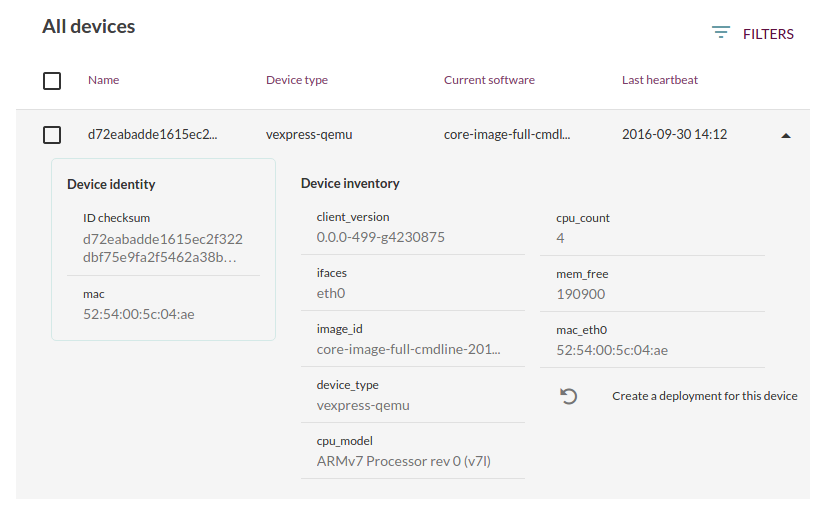
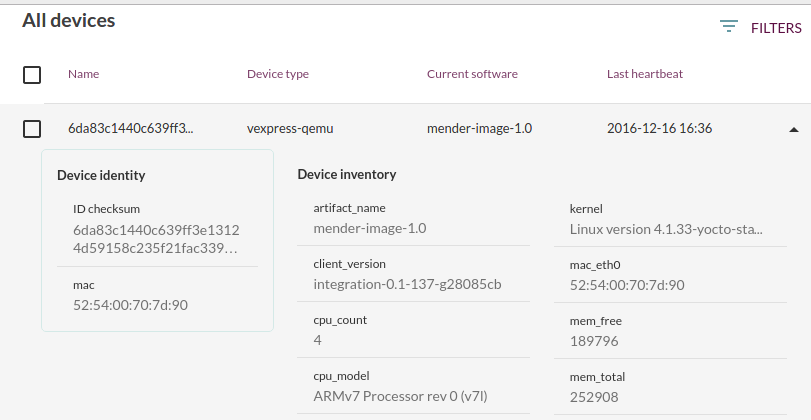
skeleton rewrite to Artifact format for deploy virtual devices

diff --git a/01.Getting-started/03.Deploy-to-virtual-devices/docs.md b/01.Getting-started/03.Deploy-to-virtual-devices/docs.md
@@ -9,6 +9,10 @@ to deploy a full rootfs image update to a virtual device which is
 connected to the server. The virtual device is bundled with the
 Mender server to make it easy to test Mender.
 
+A Mender Artifact is a file format that includes metadata like the
+checksum and name, as well as the actual root file system that is
+deployed. See [Mender Artifacts](../../Architecture/Mender-Artifacts) for
+a complete description of this format.
 
 ## Prerequisites
 
@@ -47,7 +51,7 @@ clicking on a device. It should look similar to the following:
 
 !!! Which information is collected about devices is fully configurable; see the documentation on [Identity](../../Client-configuration/Identity) and [Inventory](../../Client-configuration/Inventory) for more information.
 
-You can also see that the `image_id` starts with `core-image-full-cmdline`.
+You can also see that the `artifact_name` is `mender-image-1.0`.
 The device console can be shown by running the following command:
 
 ```
@@ -61,54 +65,53 @@ It should yield output similar to the following:
 > [  OK  ] Started Mender OTA update service.  
 > [  OK  ] Reached target Multi-User System.  
 >  
-> Poky (Yocto Project Reference Distro) 2.1.1 vexpress-qemu ttyAMA0
+> Poky (Yocto Project Reference Distro) 2.2 vexpress-qemu ttyAMA0
 
-After deploying the update below, you can verify that this `image_id` and the console text (from `/etc/issue`) has changed.
+After deploying the update below, you can verify that this `artifact_name` and the console text (from `/etc/issue`) has changed.
 
 
-## Upload a new rootfs image to the server
+## Upload a new Mender Artifact to the server
 
-Before we can deploy a new image to devices, it needs
-to be uploaded to the server. Any rootfs image that
-includes Mender support can be used, as described in
+Before we can deploy a new Artifact to devices, it needs
+to be uploaded to the server. Any Artifact that
+can be used, and steps to build one are provided at
 [Building a Mender Yocto Project image](../../Artifacts/Building-Mender-Yocto-image).
 
-To make testing easier, a demo image that can be used with
+To make testing easier, a Mender Artifact that can be used with
 the virtual device is provided for download at
 [https://d1b0l86ne08fsf.cloudfront.net/latest/demo/vexpress-qemu/core-image-full-cmdline-vexpress-qemu.ext4](https://d1b0l86ne08fsf.cloudfront.net/latest/demo/vexpress-qemu/core-image-full-cmdline-vexpress-qemu.ext4).
 
-After the download finishes, go back to the Mender server UI,
-click the **Software** tab and upload this image.
+!! TODO: Change above URL.
 
-!!! Currently there are quite a few fields to fill out, but this will very soon be simplified to just *Name* and *Description*, the rest being auto-detected.
+After the download finishes, go back to the Mender server UI,
+click the **Software** tab and upload this Mender Artifact.
 
 Please fill in the following:
 
 * Name: `release2`
-* Yocto ID: `test`
-* Checksum: `test`
-* Device type compatibility: `vexpress-qemu`
 * Description: `My test build`
+
+!!! Both these fields are just informational, to make it is easier to recognize Artifacts after they have been uploaded. Their contents do not affect deployments.
 
 In the UI, it should look something like this:
 
-![Mender UI - Upload image](upload_image.png)
+![Mender UI - Upload Artifact](upload_artifact.png)
 
-! Thorough validation of image metadata is not yet implemented, so we recommend using the exact values above to avoid any issues.
+!! TODO: Fix above screenshot
 
-!!! Mender keeps track of which *Device type* an image supports as part of the metadata of an image. In addition, a device reports which Device type it is as part of its inventory information. During a deployment, the Mender server makes sure that a device will only get a image it supports. This increases the robustness of Mender as it avoids situations like deploying images that are not supported by the device hardware.
+!!! All devices report which *Device type* they are as part of their inventory information, for example `vexpress-qemu` or `beaglebone`. In adition, Mender Artifacts have *Device types compatible* as part of their metadata. During a deployment, the Mender server makes sure that a device will only get an Artifact it is compatible with. This increases the robustness of Mender as it avoids situations like deploying software that is not supported by the device hardware.
 
 
-## Deploy the rootfs image to the device
+## Deploy the Mender Artifact to the device
 
-Now that we have the device connected and the image
+Now that we have the device connected and the Artifact
 uploaded to the server, all that remains is to go to the
 **Deployments** tab and click **Create a deployment**.
 
-You will be asked which image to deploy and which
+You will be asked which Artifact to deploy and which
 group of devices to deploy it to. Since we have just
-one image and no custom groups right now, we simply select
-the image we just uploaded and **All devices**, then
+one Artifact and no custom groups right now, we simply select
+the Artifact we just uploaded and **All devices**, then
 **Create deployment**.
 
 !!! It may take a few seconds until the deployment shows up. You can also refresh your browser to see it immediately.
@@ -117,11 +120,11 @@ the image we just uploaded and **All devices**, then
 ## See the progress of the deployment
 
 As the deployment progresses, you can click on it to view more details about the current status across all devices.
-In the example below, we can see that the device is in process of installing the new image.
+In the example below, we can see that the device is in process of installing the new Artifact.
 
 ![Mender UI - Deployment progress](deployment_report.png)
 
-! As the deployment progresses, the UI should auto-refresh periodically. However, if this does not happen or you want to see the current state, you can refresh your browser manually.
+!! TODO Fix above screenshot.
 
 !!! The deployment to the virtual device should take about 2-3 minutes to complete and report success or failure.
 
@@ -132,7 +135,9 @@ Once the deployment completes, you should see it in *Past deployments*.
 If the deployment fails you can view the deployment log,
 which is obtained from the device, to diagnose the issue.
 You can also see the state of deployments on the Dashboard.
-In **Devices** you can see that `image_id` has now changed to `test`.
+In **Devices** you can see that `artifact_name` has now changed to `test`.
+
+!! TODO: actial artifact_name above
 
 Furthermore, you can again check the terminal of the virtual device with:
 
@@ -157,42 +162,25 @@ This shows your virtual device runs the new rootfs!
 ## Deploy another update
 
 For robustness and avoiding unnecessary deployments, Mender
-will not deploy an image that is already installed on a device.
-Thus, if you create another deployment with the image you already
-uploaded, Mender will see that it is the same rootfs image
+will not deploy an Artifact that is already installed on a device.
+Thus, if you create another deployment with the Artifact you already
+uploaded, Mender will see that it contains the same rootfs
 that is already installed and skip the deployment. It will
 immediately be marked as successful and moved to *Past deployments*.
 
-For this reason, we provide another image that you can use
+For this reason, we provide another Artifact that you can use
 to deploy with at [https://d1b0l86ne08fsf.cloudfront.net/latest/vexpress-qemu/core-image-full-cmdline-vexpress-qemu.ext4](https://d1b0l86ne08fsf.cloudfront.net/latest/vexpress-qemu/core-image-full-cmdline-vexpress-qemu.ext4). 
-Make sure to not mix it with the demo rootfs you downloaded above,
+Make sure to not mix it with the test Artifact you downloaded above,
 as they have the same file name.
-This is actually the original rootfs of your
+This Artifact actually contains the original  of your
 QEMU virtual device, before you deployed the update above.
 
-When you upload this image, it is very important that
-you set the right **Yocto ID**. The Yocto ID in this particular
-image changes over time with new builds, and you can find it by running the
-following long command string:
-
-```
-mkdir /tmp/rootfs && sudo mount -t ext4 -o loop core-image-full-cmdline-vexpress-qemu.ext4 /tmp/rootfs/ && cat /tmp/rootfs/etc/mender/build_mender | grep IMAGE_ID | cut -f3 -d" "  && sudo umount /tmp/rootfs && rmdir /tmp/rootfs
-```
-
-!!! All this command does is to look at the file `/etc/mender/build_mender` inside the root file system. It contains `IMAGE_ID` which is mapped to `Yocto ID` (both will soon be renamed to Image ID).
-
-The output should look something like `core-image-full-cmdline-20161006122803`.
-
-After finding the correct value for Yocto ID, go
-to **Software** again and upload with the following fields:
+Go to **Software** again and upload with the following fields:
 
 * Name: `release1`
-* Yocto ID: `core-image-full-cmdline-20161006122803` (**NB! use the string you found above**)
-* Checksum: `test`
-* Device type compatibility: `vexpress-qemu`
 * Description: `My original build`
 
-After the rootfs has been uploaded, you can deploy it to your device
+After the Artifact has been uploaded, you can deploy it to your device
 to get it back to the original root file system.
 
 Now, if you observe the virtual client boot process
@@ -201,7 +189,7 @@ from `/etc/issue` just before the login prompt again:
 
 > mender-client_1             | Poky (Yocto Project Reference Distro) 2.1.1 vexpress-qemu ttyAMA0
 
-Following this, you can deploy the `release2` rootfs again, and so forth.
+Following this, you can deploy the `release2` Artifact again, and so forth.
 
 
 ## Deploy to custom groups
@@ -209,7 +197,7 @@ Following this, you can deploy the `release2` rootfs again, and so forth.
 As you might have noticed, it is possible to create
 groups in the **Devices** tab. Once you have created a
 group and added one or more devices to it, you can deploy
-an image to that group by selecting the group instead
+an Artifact to that group by selecting the group instead
 of *All devices* when you create a deployment.
 
 This can be very useful in order to deploy to test devices
